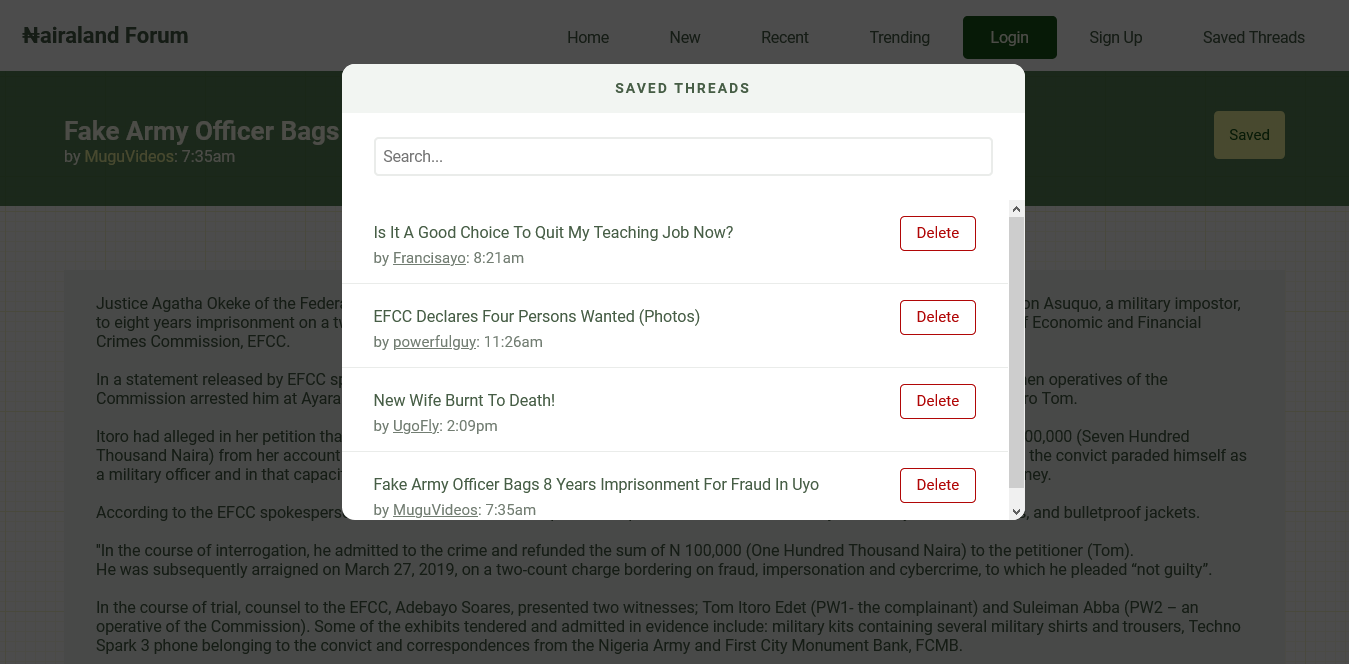
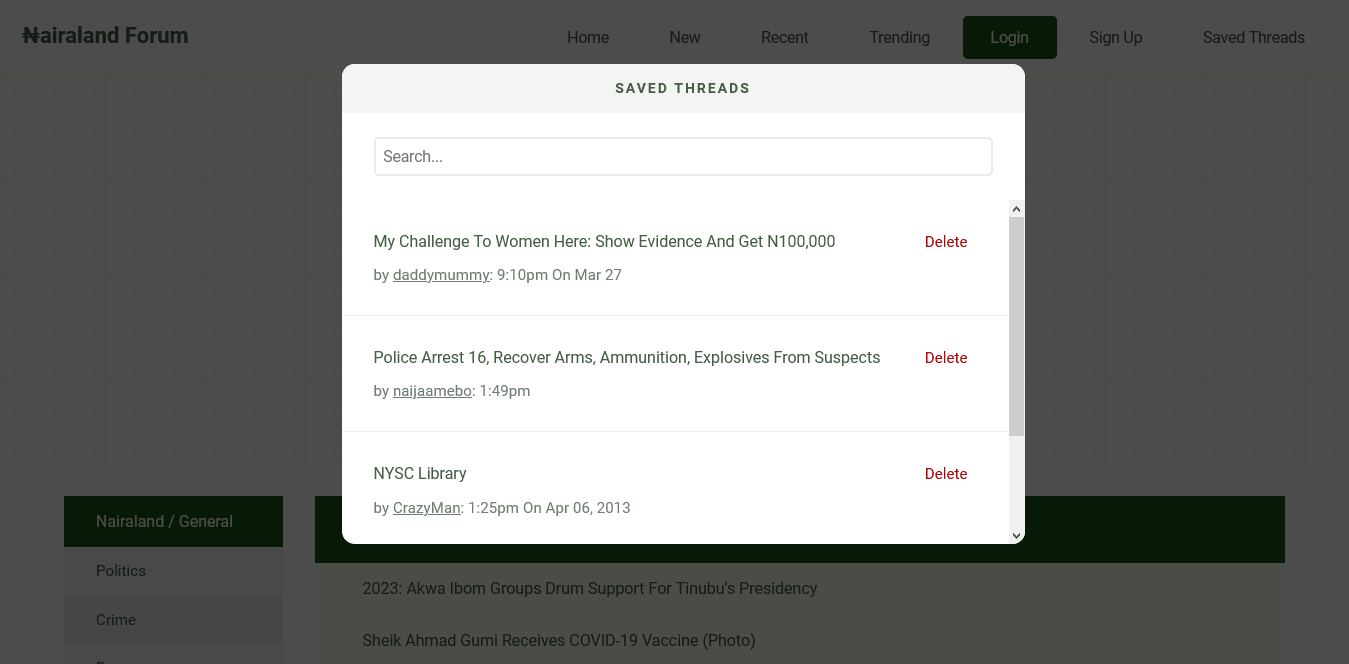
Used web components to implement filterable list, which only works on Mozilla for now

diff --git a/components.js b/components.js
@@ -126,7 +126,7 @@ const Thread = (posts, threadMeta) =>
     ...posts.map((post) => PostWrapper(post, threadMeta))
   );
 
-const SavedThread = (threadMeta) =>
+const SavedThread = (threadMeta, savedThreadsEl) =>
   el(
     "div",
     { class: "saved-thread" },
@@ -146,14 +146,7 @@ const SavedThread = (threadMeta) =>
         t(`: ${threadMeta.timeOfPub}`)
       )
     ),
-    DeleteThreadButton(threadMeta.link)
-  );
-
-const SavedThreads = (threadsMeta = []) =>
-  el(
-    "div",
-    { class: "saved-threads" },
-    ...threadsMeta.map((tm) => SavedThread(tm))
+    DeleteThreadButton(threadMeta.link, savedThreadsEl)
   );
 
 const ThreadMeta = (threadMeta) =>
@@ -200,18 +193,18 @@ const SaveThreadButton = (threadMeta) => {
   return [el];
 };
 
-const DeleteThreadButton = (threadLink) => {
+const DeleteThreadButton = (threadLink, savedThreadsEl) => {
   const el = document.createElement("button");
   el.textContent = "delete";
   el.classList.add("delete");
 
   el.onclick = function (ev) {
-    const savedThreads = JSON.parse(localStorage.getItem("savedThreads")) || [];
-    localStorage.setItem(
-      "savedThreads",
-      JSON.stringify(savedThreads.filter((sv) => sv.link !== threadLink))
+    let savedThreads = JSON.parse(localStorage.getItem("savedThreads")) || [];
+    savedThreads = JSON.stringify(
+      savedThreads.filter((sv) => sv.link !== threadLink)
     );
-    ev.target.parentElement.remove();
+    localStorage.setItem("savedThreads", savedThreads);
+    savedThreadsEl.setAttribute("threads", savedThreads);
   };
 
   return [el];
@@ -362,16 +355,7 @@ const SavedThreadsModalContent = () => {
         "div",
         {},
         el("div", { class: "modal-header" }, el("h2", {}, t("saved threads"))),
-        el(
-          "div",
-          { class: "modal-body" },
-          el(
-            "div",
-            { class: "filter" },
-            el("input", { class: "query", placeholder: "Search..." })
-          ),
-          SavedThreads(JSON.parse(localStorage.getItem("savedThreads")) || [])
-        )
+        el("div", { class: "modal-body" }, el("saved-threads-filter", {}))
       )
     ),
   ];
@@ -381,8 +365,171 @@ const SavedThreadsModal = () => {
   const el = document.createElement("div");
   el.classList.add("modal-container");
   el.onclick = function (ev) {
-    console.log(ev.target);
     ev.target.remove();
   };
   return [render(el, SavedThreadsModalContent())];
 };
+
+class SavedThreadsFilterComponent extends HTMLElement {
+  constructor() {
+    super();
+    this.attachShadow({ mode: "open" });
+  }
+
+  connectedCallback() {
+    const threads = JSON.parse(localStorage.getItem("savedThreads")) || [];
+    const filter = document.createElement("div");
+    const savedThreadsEl = document.createElement("saved-threads");
+    savedThreadsEl.setAttribute("threads", JSON.stringify(threads));
+    const filterInput = document.createElement("input");
+    filterInput.placeholder = "Search..."
+    filterInput.addEventListener("input", (ev) =>
+      updateList(threads, ev.target.value, savedThreadsEl)
+    );
+    filter.classList.add("filter");
+    filter.appendChild(filterInput);
+
+    const styles = document.createElement("style");
+    styles.textContent = `
+      .filter {
+        padding: 1.5em 2em;
+      }
+      
+      .filter input {
+        display: block;
+        width: 100%;
+        font-size: 0.97rem;
+        font-family: Roboto;
+        border: 2px solid var(--dark-gray);
+        padding: 0.5em;
+        border-radius: 0.3em;
+        box-sizing: border-box;
+      }
+      
+      .filter input:focus {
+        outline: none;
+        border-color: #86de85;
+      }
+    `;
+    this.shadowRoot.append(styles, filter, savedThreadsEl);
+  }
+}
+
+function updateList(threads, query, el) {
+  el.setAttribute(
+    "threads",
+    JSON.stringify(
+      threads.filter((t) => t.title.toLowerCase().includes(query.toLowerCase()))
+    )
+  );
+}
+
+class SavedThreadsComponent extends HTMLElement {
+  static get observedAttributes() {
+    return ["threads"];
+  }
+
+  constructor() {
+    super();
+    this.attachShadow({ mode: "open" });
+  }
+
+  connectedCallback() {
+    const styles = document.createElement("style");
+    styles.textContent = `
+      .saved-threads {
+        max-height: 20em;
+        overflow-y: auto;
+        padding-bottom: 1.5em;
+      }
+      
+      .saved-threads > div > * + * {
+        border-top: 1px solid var(--dark-gray);
+      }
+      
+      .saved-thread {
+        display: flex;
+        justify-content: space-between;
+        align-items: baseline;
+        padding: 1em 2em;
+      }
+
+      p.no-thread {
+        padding: 1em 2em;
+        text-align: center;
+        text-transform: capitalize;
+      }
+      
+      .saved-thread > div > p:first-child {
+        text-transform: capitalize;
+        margin-bottom: 0.4em;
+      }
+      
+      .saved-thread > div > p:first-child a {
+        color: inherit;
+        text-decoration: none;
+      }
+      
+      .saved-thread > div > p:last-child {
+        color: #727d72;
+        font-size: 0.95rem;
+      }
+      
+      .saved-thread a.author {
+        color: inherit;
+        text-decoration: none;
+        text-decoration: underline;
+      }
+      
+      .saved-thread button.delete {
+        text-transform: capitalize;
+        font-size: 0.95rem;
+        border-radius: 0.3em;
+        color: var(--danger);
+        border: 0;
+        font-family: inherit;
+        background: transparent;
+        margin-left: 0.5rem;
+        cursor: pointer;
+      }
+      
+      .saved-thread button.delete:hover {
+        text-decoration: underline;
+      }
+    `;
+    this.shadowRoot.appendChild(styles);
+    renderList(JSON.parse(this.getAttribute("threads")) || [], this);
+  }
+
+  attributeChangedCallback(name, oldV, newV) {
+    if (name === "threads") {
+      renderList(JSON.parse(newV) || [], this);
+    }
+  }
+}
+
+function renderList(list = [], parent) {
+  let elem;
+  try {
+    elem = parent.shadowRoot.querySelector(".saved-threads");
+    elem.querySelectorAll("*").forEach((sts) => sts.remove());
+  } catch {
+    elem = document.createElement("div");
+    elem.classList.add("saved-threads");
+  }
+  if (list.length) {
+    render(elem, el("div", {}, ...list.map((t) => SavedThread(t, parent))));
+  } else {
+    const p = document.createElement("p");
+    p.classList.add("no-thread");
+    p.append("no saved threads");
+    elem.append(p);
+  }
+  parent.shadowRoot.appendChild(elem);
+}
+
+window.customElements.define("saved-threads", SavedThreadsComponent);
+window.customElements.define(
+  "saved-threads-filter",
+  SavedThreadsFilterComponent
+);

diff --git a/styles.css b/styles.css
@@ -422,76 +422,3 @@ div.meta a.author {
   text-transform: uppercase;
   letter-spacing: 2px;
 }
-
-.modal-body .filter {
-  padding: 1.5em 2em;
-}
-
-.modal-body .filter input {
-  display: block;
-  width: 100%;
-  font-size: 0.97rem;
-  font-family: Roboto;
-  border: 2px solid var(--dark-gray);
-  padding: 0.5em;
-  border-radius: 0.3em;
-}
-
-.modal-body .filter input:focus {
-  outline: none;
-  border-color: #86de85;
-}
-
-.saved-threads {
-  max-height: 20em;
-  overflow-y: auto;
-  padding-bottom: 1.5em;
-}
-
-.saved-threads > * + * {
-  border-top: 1px solid var(--dark-gray);
-}
-
-.saved-thread {
-  display: flex;
-  justify-content: space-between;
-  align-items: baseline;
-  padding: 1em 2em;
-}
-
-.saved-thread > div > p:first-child {
-  text-transform: capitalize;
-  margin-bottom: 0.4em;
-}
-
-.saved-thread > div > p:first-child a {
-  color: inherit;
-  text-decoration: none;
-}
-
-.saved-thread > div > p:last-child {
-  color: #727d72;
-  font-size: 0.95rem;
-}
-
-.saved-thread a.author {
-  color: inherit;
-  text-decoration: none;
-  text-decoration: underline;
-}
-
-.saved-thread button.delete {
-  text-transform: capitalize;
-  font-size: 0.95rem;
-  border-radius: 0.3em;
-  color: var(--danger);
-  border: 0;
-  font-family: inherit;
-  background: transparent;
-  margin-left: 0.5rem;
-  cursor: pointer;
-}
-
-.saved-thread button.delete:hover {
-  text-decoration: underline;
-}

diff --git a/utils.js b/utils.js
@@ -104,5 +104,4 @@ const deleteThread = (el, threadMeta) => {
 
 const showModal = () => {
   render(document.querySelector("body"), SavedThreadsModal())
-  console.log("here")
 }
